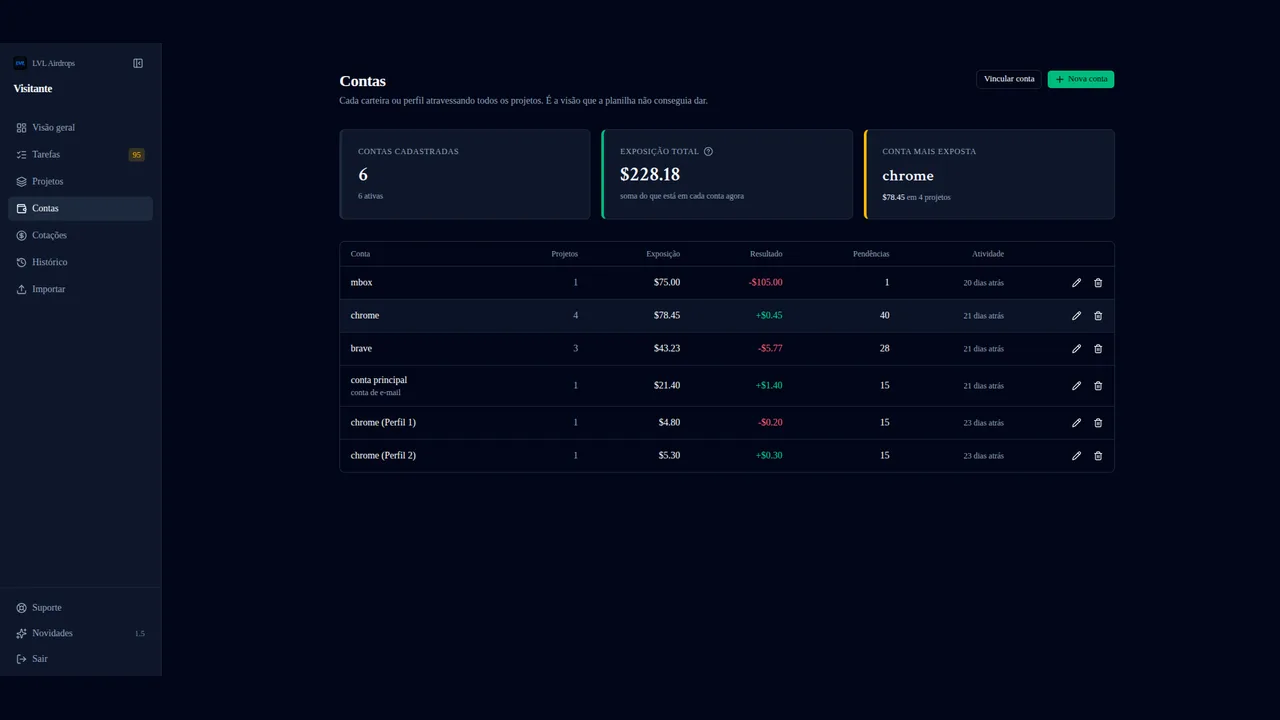
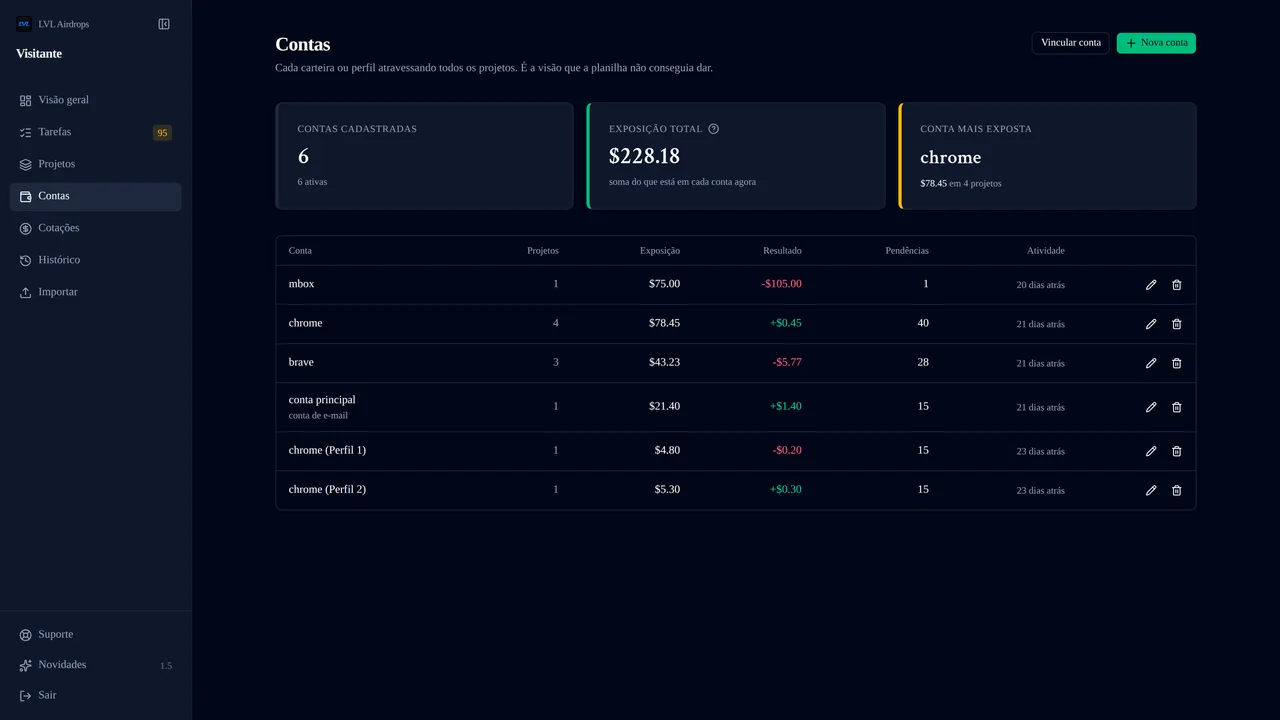
feat: recapture the Airdrop Tracker screens straight from the app
The old shots were desktop captures that included browser chrome and were
wider than 16:9, so fitting them to the card left a ~170px dead band on the
right and none on the left: the content read as pushed sideways.

Replaced by captures driven through the demo login in a 1600x900 viewport,
which is 16:9 natively, at deviceScaleFactor 2 for sharper text. No browser
chrome, no scrollbar, no letterbox, and the remaining right margin is the
app's own padding rather than something added in processing.

Order follows the files staged in the folder: login, visão geral, projetos,
contas, histórico. Drops the raw 1.png, which would have shipped to
production untouched inside public/.

diff --git a/src/data/projects.js b/src/data/projects.js
@@ -53,12 +53,13 @@ export const projects = [
     repoUrl: 'https://github.com/arturnery/airdrop-tracker',
     demoUrl: 'https://lvl-airdrop.vercel.app',
     autoplay: true, // carrossel passa sozinho (pausa no hover/foco, respeita reduce-motion)
-    // 4 telas do app: histórico, visão geral, projetos e contas.
+    // 5 telas do app: login, visão geral, projetos, contas e histórico.
     imagens: [
       '/images/projects/airdrop-tracker/1.webp',
       '/images/projects/airdrop-tracker/2.webp',
       '/images/projects/airdrop-tracker/3.webp',
       '/images/projects/airdrop-tracker/4.webp',
+      '/images/projects/airdrop-tracker/5.webp',
     ],
   },
   {
